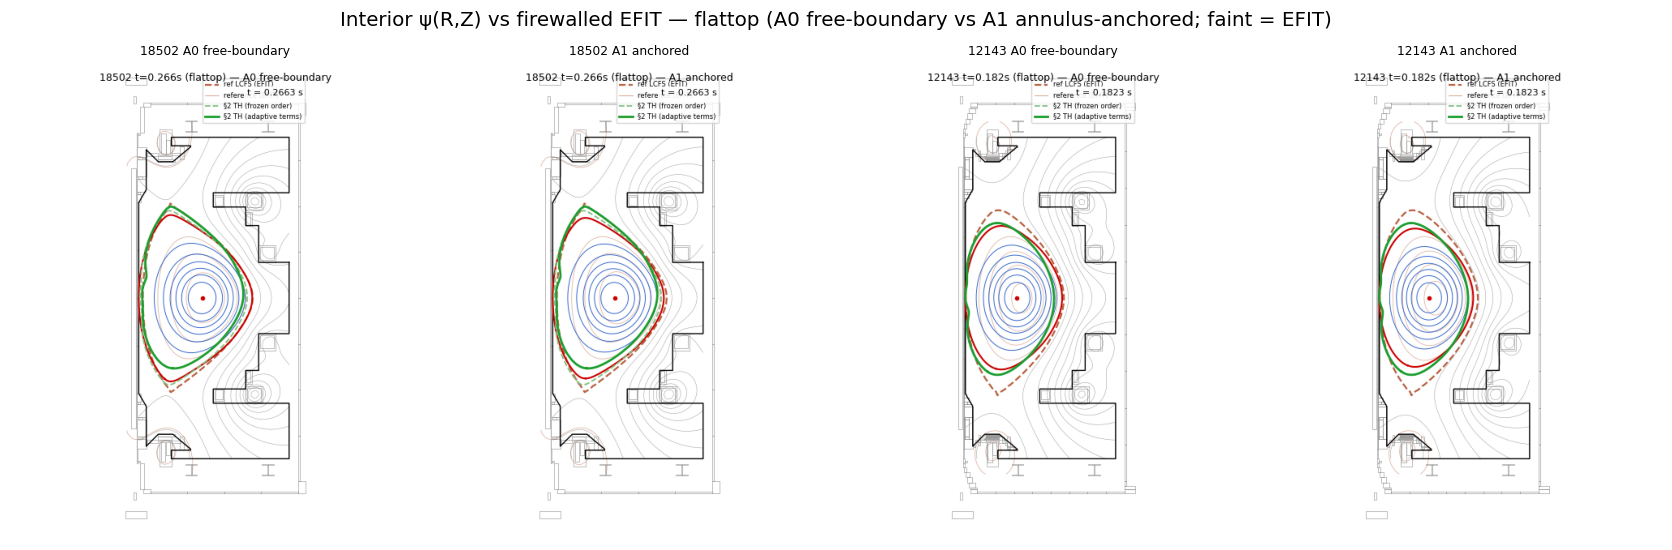
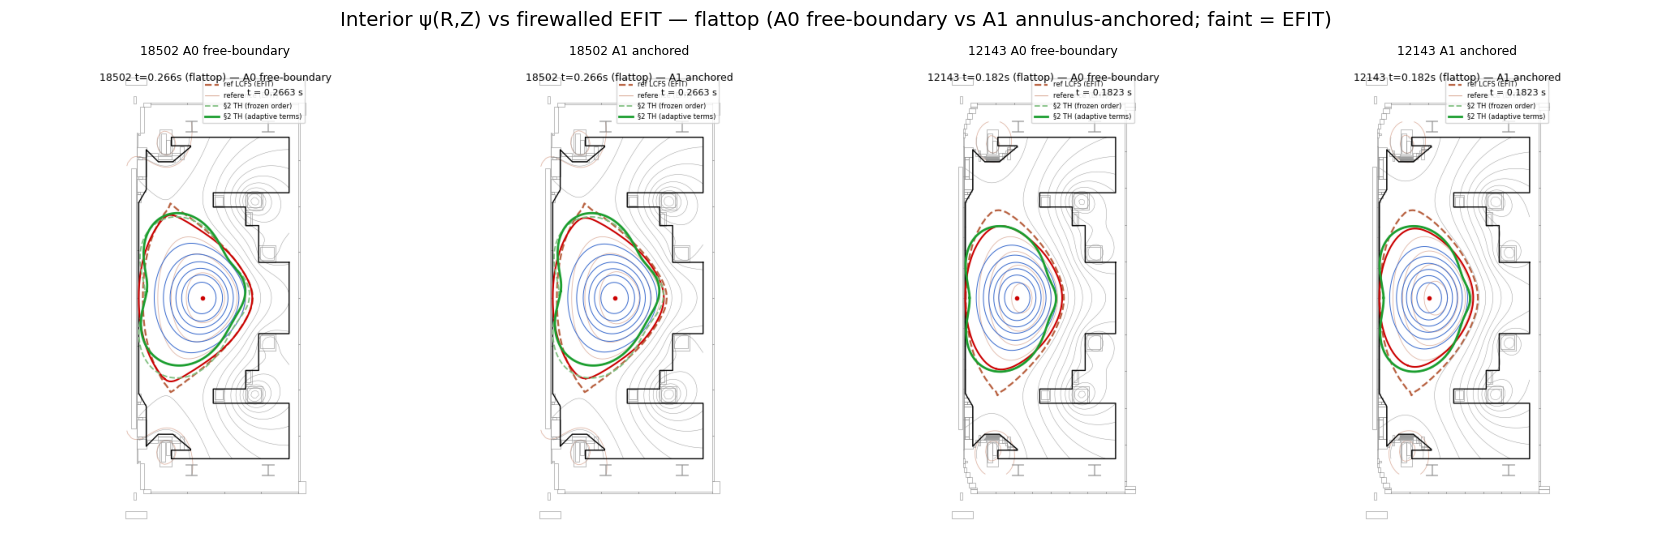
fix(topology): Fourier r(theta) boundary smoothing (8x ripple cut) + drop kink-inducing X-point snap; wire clip+smooth into reads/figures

diff --git a/imas_ambix/latent/topology.py b/imas_ambix/latent/topology.py
@@ -494,6 +494,7 @@ def lcfs_contour(
     n_coarse: int = 6,
     n_bisect: int = 14,
     clip_legs: bool = False,
+    smooth_modes: int = 0,
 ) -> LcfsContour:
     """LCFS = the outermost closed axis-enclosing flux contour inside the limiter.
 
@@ -615,9 +616,6 @@ def lcfs_contour(
             )
         if ring is None:
             return nan
-        ring = _snap_ring_to_xpoints(
-            ring, psi, r_1d, z_1d, psi_bnd, lim_r, lim_z, axis
-        )
     else:
         # Step a hair inside (99.9% convention) and read the reported ring.
         psi_lcfs = psi_axis + lcfs_norm * (psi_bnd - psi_axis)
@@ -626,6 +624,8 @@ def lcfs_contour(
             ring = _valid_ring(lo)  # fall back to the exact largest-valid ring
         if ring is None:
             return nan
+    if smooth_modes > 0:
+        ring = _fourier_smooth_ring(ring, axis, smooth_modes)
     radii = resample_lcfs_radii(
         ring[:, 0], ring[:, 1], float(axis[0]), float(axis[1]), ang
     )
@@ -638,50 +638,51 @@ def lcfs_contour(
     )
 
 
-def _snap_ring_to_xpoints(
-    ring: np.ndarray,
-    psi: np.ndarray,
-    r_1d: np.ndarray,
-    z_1d: np.ndarray,
-    psi_bnd: float,
-    lim_r: np.ndarray | None,
-    lim_z: np.ndarray | None,
-    axis: tuple[float, float],
-    *,
-    flux_tol: float = 0.05,
-    dist_tol: float = 0.08,
+def _fourier_smooth_ring(
+    ring: np.ndarray, axis: tuple[float, float], n_modes: int, n_out: int = 256
 ) -> np.ndarray:
-    """Snap the confined lobe to any X-point sitting on the separatrix.
+    """Smooth a star-shaped boundary polygon by truncated-Fourier r(θ).
 
-    A diverted plasma's separatrix passes through the X-point; the closed lobe
-    traced a hair inside rounds that corner.  For each in-limiter saddle whose
-    flux matches ``psi_bnd`` (within ``flux_tol`` of the axis→boundary span) and
-    that lies within ``dist_tol`` [m] of the lobe, replace the nearest ring
-    vertex with the X-point itself — the boundary then reaches the true
-    separatrix corner (the leg clipped exactly at the X-point).  Limited plasmas
-    (no on-separatrix X-point) are returned unchanged.
+    The contour traced off the coarse (nr×nz) grid is jagged at the grid scale
+    (~a cell), which reads as boundary ripple even though the underlying
+    source-free / force-balanced ψ is analytically smooth.  The boundary of a
+    low-order field is itself low-order in the poloidal angle θ, so fitting the
+    ring's r(θ) to ``n_modes`` Fourier harmonics and re-evaluating on a dense θ
+    grid removes the grid jaggedness while preserving the genuine shaping
+    (elongation, triangularity) up to that order — matching the harmonic read's
+    own angular content.  Falls back to the input ring if r(θ) is not
+    single-valued (a strongly non-star-shaped boundary the fit can't represent).
     """
-    cp = find_critical_points(psi, r_1d, z_1d)
-    if cp.x_points.shape[0] == 0:
+    ar, az = float(axis[0]), float(axis[1])
+    dr = ring[:, 0] - ar
+    dz = ring[:, 1] - az
+    th = np.arctan2(dz, dr)
+    r = np.hypot(dr, dz)
+    order = np.argsort(th)
+    th, r = th[order], r[order]
+    # de-duplicate near-identical angles (contourpy can repeat vertices)
+    keep = np.concatenate([[True], np.diff(th) > 1e-6])
+    th, r = th[keep], r[keep]
+    if th.size < 2 * n_modes + 2:
         return ring
-    span = abs(psi_bnd - _bilerp(psi, r_1d, z_1d, float(axis[0]), float(axis[1])))
-    span = span if span > 0 else 1.0
-    out = ring
-    for xr, xz, xv in zip(cp.x_points[:, 0], cp.x_points[:, 1], cp.x_psi, strict=True):
-        if abs(xv - psi_bnd) > flux_tol * span:
-            continue
-        if lim_r is not None and lim_z is not None:
-            inside = _inside_polygon(
-                np.array([xr]), np.array([xz]), lim_r, lim_z
-            )[0]
-            if not inside:
-                continue
-        d = np.hypot(out[:, 0] - xr, out[:, 1] - xz)
-        k = int(np.argmin(d))
-        if d[k] <= dist_tol:
-            out = out.copy()
-            out[k] = (xr, xz)
-    return out
+    # least-squares Fourier fit r(θ) = a0 + Σ a_k cos kθ + b_k sin kθ
+    cols = [np.ones_like(th)]
+    for k in range(1, n_modes + 1):
+        cols += [np.cos(k * th), np.sin(k * th)]
+    basis = np.vstack(cols).T
+    try:
+        coef, *_ = np.linalg.lstsq(basis, r, rcond=None)
+    except np.linalg.LinAlgError:  # pragma: no cover
+        return ring
+    tt = np.linspace(-np.pi, np.pi, n_out, endpoint=False)
+    dense = [np.ones_like(tt)]
+    for k in range(1, n_modes + 1):
+        dense += [np.cos(k * tt), np.sin(k * tt)]
+    rr = np.vstack(dense).T @ coef
+    if not np.all(rr > 0):  # fit went non-physical — keep the raw ring
+        return ring
+    out = np.column_stack([ar + rr * np.cos(tt), az + rr * np.sin(tt)])
+    return np.vstack([out, out[:1]])  # closed polygon
 
 
 def emergent_xpoints(

diff --git a/tests/latent/test_lcfs_legclip.py b/tests/latent/test_lcfs_legclip.py
@@ -45,14 +45,34 @@ def test_clip_legs_reaches_xpoint_and_excludes_legs():
     assert plain.found and clipped.found
     # clipped ring is closed & encloses the axis (a real lobe)
     assert clipped.ring.shape[0] >= 6
-    # clipped lobe reaches the X-point corner: a ring vertex ~on the saddle
+    # ψ_N=1 lobe reaches AT LEAST as close to the X-point corner as the 0.999 ring
     d_clip = np.hypot(clipped.ring[:, 0] - xk[0], clipped.ring[:, 1] - xk[1]).min()
     d_plain = np.hypot(plain.ring[:, 0] - xk[0], plain.ring[:, 1] - xk[1]).min()
-    assert d_clip <= d_plain + 1e-9  # reaches at least as close to the X-point
-    assert d_clip < 0.05  # essentially ON the X-point
-    # legs excluded: no ring vertex sits in the private-flux region well BELOW
-    # the X-point (the divertor leg would dip there)
-    assert clipped.ring[:, 1].min() >= xk[1] - 0.1
+    assert d_clip <= d_plain + 1e-9
+    # legs excluded: the confined lobe does not dip into the private-flux region
+    # well BELOW the X-point (a divertor leg would)
+    assert clipped.ring[:, 1].min() >= xk[1] - 0.12
+
+
+def test_smooth_modes_reduces_ripple():
+    """Fourier r(θ) smoothing removes grid-scale contour jaggedness while
+    preserving the lobe (the fix for the visible boundary ripple)."""
+    psi, rg, zg, axis, lr, lz = _diverted_field()
+
+    def ripple(ring):
+        th = np.arctan2(ring[:, 1] - axis[1], ring[:, 0] - axis[0])
+        r = np.hypot(ring[:, 0] - axis[0], ring[:, 1] - axis[1])
+        r = r[np.argsort(th)]
+        return float(np.std(np.diff(r, 2)) / max(np.mean(r), 1e-9))
+
+    raw = lcfs_contour(psi, rg, zg, axis, limiter_r=lr, limiter_z=lz, clip_legs=True)
+    sm = lcfs_contour(
+        psi, rg, zg, axis, limiter_r=lr, limiter_z=lz, clip_legs=True, smooth_modes=4
+    )
+    assert sm.found
+    assert ripple(sm.ring) < 0.5 * ripple(raw.ring)  # markedly smoother
+    # shape preserved: the two boundaries agree on the 8 scored radii
+    assert np.nanmax(np.abs(sm.radii - raw.radii)) < 0.06
 
 
 def test_clip_legs_limited_case_matches_plain():

diff --git a/scripts/boundary_harmonic_gate_eval.py b/scripts/boundary_harmonic_gate_eval.py
@@ -170,7 +170,8 @@ def annulus_consistency_rms(
 
 
 def hybrid_target_harmonic(
-    psi_tot, grid, axis, pole, mask_radius, exclude_radius, *, xpoint_tol=0.05
+    psi_tot, grid, axis, pole, mask_radius, exclude_radius, *, xpoint_tol=0.05,
+    clip_legs=False,
 ):
     """14-D geometry target: LCFS SHAPE by the outermost closed axis-enclosing
     flux contour; X-points + limited/diverted class emergent.
@@ -220,6 +221,7 @@ def hybrid_target_harmonic(
         grid.rg,
         grid.zg,
         tuple(axis),
+        clip_legs=clip_legs,
         limiter_r=grid.limiter_r,
         limiter_z=grid.limiter_z,
     )

diff --git a/scripts/_soft_prior_flux_evidence.py b/scripts/_soft_prior_flux_evidence.py
@@ -78,6 +78,7 @@ def _th_lcfs_ring(p, grid, table, basis, meta, adaptive="fixed"):
     lc = lcfs_contour(
         field, grid.rg, grid.zg, origin,
         limiter_r=grid.limiter_r, limiter_z=grid.limiter_z,
+        clip_legs=True, smooth_modes=4,
     )
     return lc.ring if lc.found else None
 

diff --git a/scripts/closure_gate_eval.py b/scripts/closure_gate_eval.py
@@ -114,6 +114,7 @@ def geometry_target_pushout(psi2d, grid, clip_legs=True):
         limiter_r=grid.limiter_r,
         limiter_z=grid.limiter_z,
         clip_legs=clip_legs,
+        smooth_modes=4,
     )
     if not lc.found:
         return target, psi_ax, psi_b
